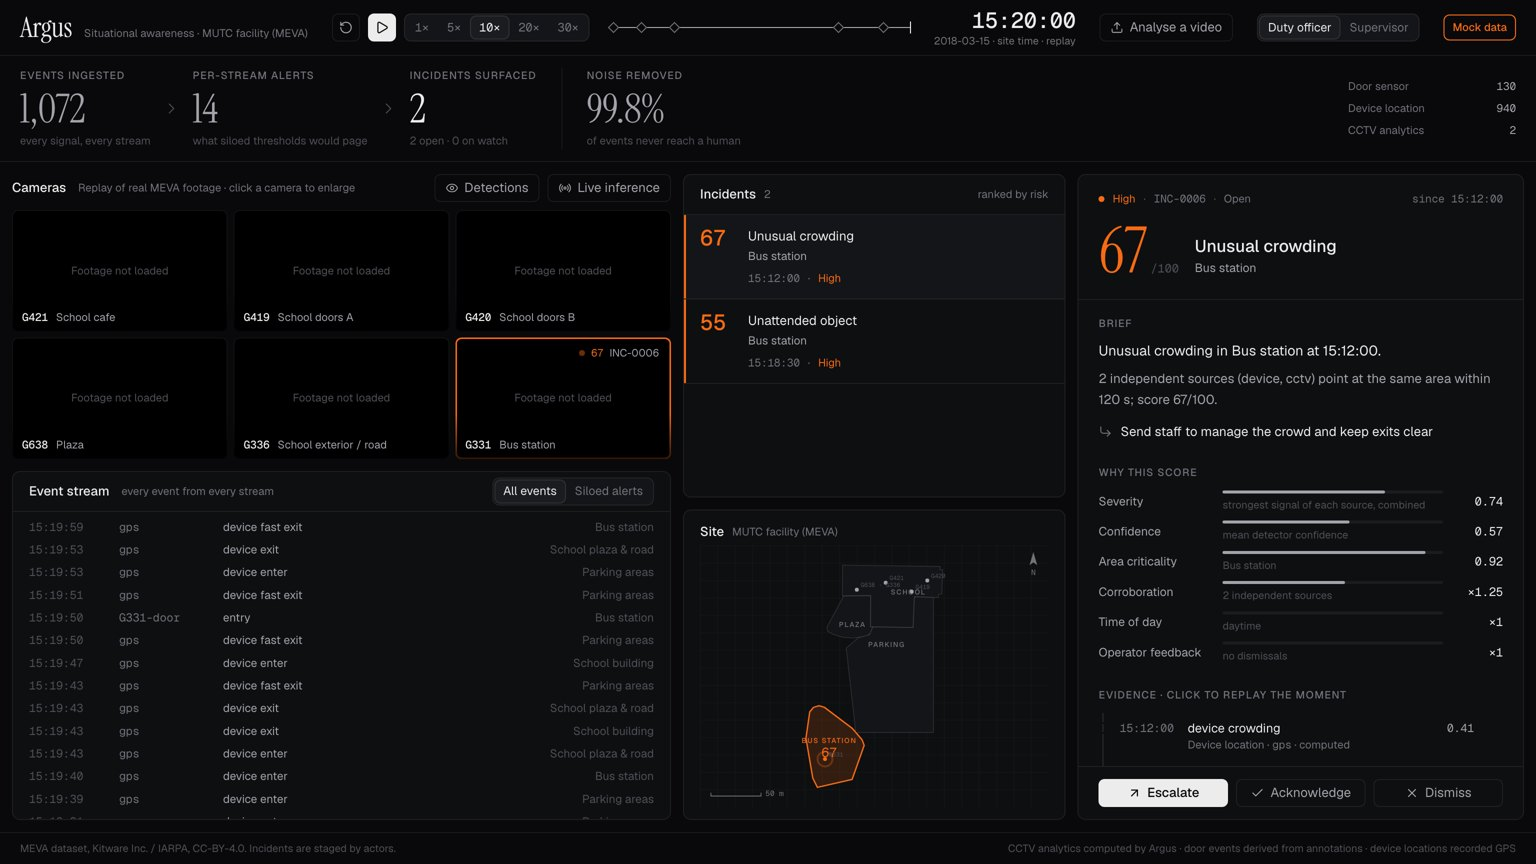
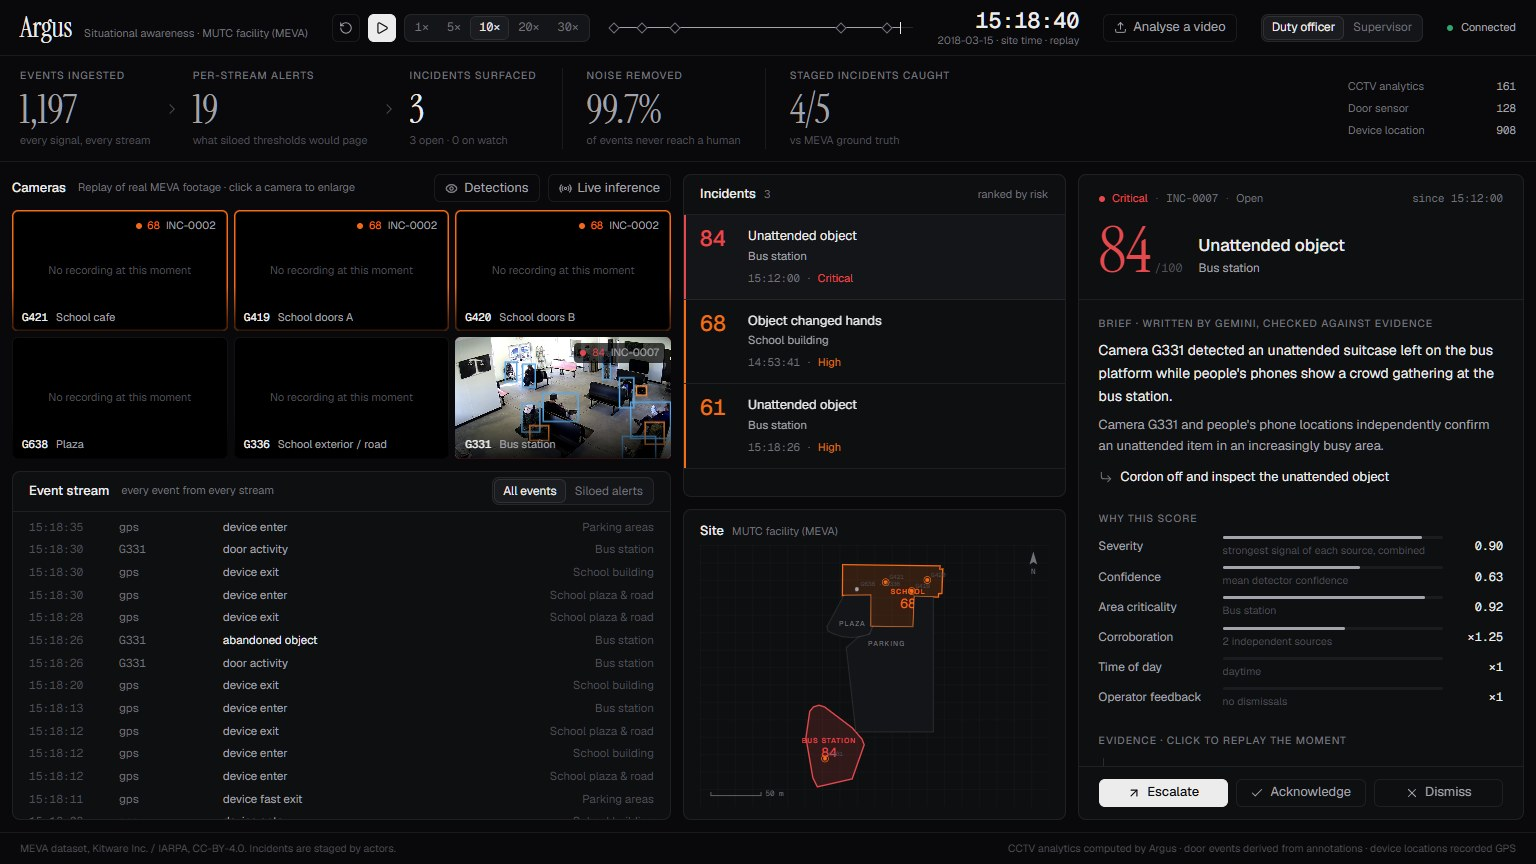
Site: real console screenshot (bus-station incident at 15:18:40, Gemini brief), caption no longer says sample data; HANDOFF §10

diff --git a/site/index.html b/site/index.html
@@ -241,7 +241,7 @@
       <figure class="figure" style="margin-left:0;margin-right:0">
         <img src="assets/console-preview.jpg" alt="The Argus console: event funnel, camera wall, ranked incidents, a to-scale site map and an incident's score breakdown" width="1536" height="864" loading="lazy" />
       </figure>
-      <p class="caption">The Argus console. This preview uses the console's sample-data mode; the live demo runs on the full MEVA replay.</p>
+      <p class="caption">The Argus console at 15:18 in the MEVA replay: the bus-station incident is open, with its brief and score breakdown.</p>
     </div>
   </section>
 

diff --git a/HANDOFF.md b/HANDOFF.md
@@ -115,3 +115,13 @@ MEVA 2018-03-15 14:50–15:20, 6 cameras, 9 clips.
 - **Why the cafe hit didn't become an incident:** a single source at sev 0.45 scores **33**, just under watch (35). Breakdown: confidence 0.35, criticality 0.84, `time_factor` **1.3**.
 - **Bug-ish, for Tanush:** uploads are stamped `2000-01-01 00:00`, so they get the **night** factor (20:00–06:00). Probably unintended: either stamp uploads at midday, or skip the night factor for the `upload` area.
 - **For a venue clip on stage, film an abandonment** (a bag left behind while its owner walks out of frame for 15 s or more). That's sev 0.8 and opens an incident on its own. A bag hand-off alone (0.45) won't, unless it's followed by the carrier walking out of frame.
+
+## 10. §4 Website screenshot: done
+
+- `site/assets/console-preview.jpg` is now a real capture (1536×864) at 15:18:40 in the MEVA replay, taken with headless Chrome at `/?incident=INC-0007`:
+  - the bus-station incident is open, with its Gemini brief and score breakdown;
+  - all 3 incidents are listed;
+  - the G331 tile shows real footage with detection boxes.
+- The five school tiles read "No recording at this moment", which is true at 15:18: those clips end at 14:55.
+- The "sample-data mode" caption is replaced with a factual one.
+- Team roles for Utkarsh and Ojus are still "Team member"; waiting on Jack.
